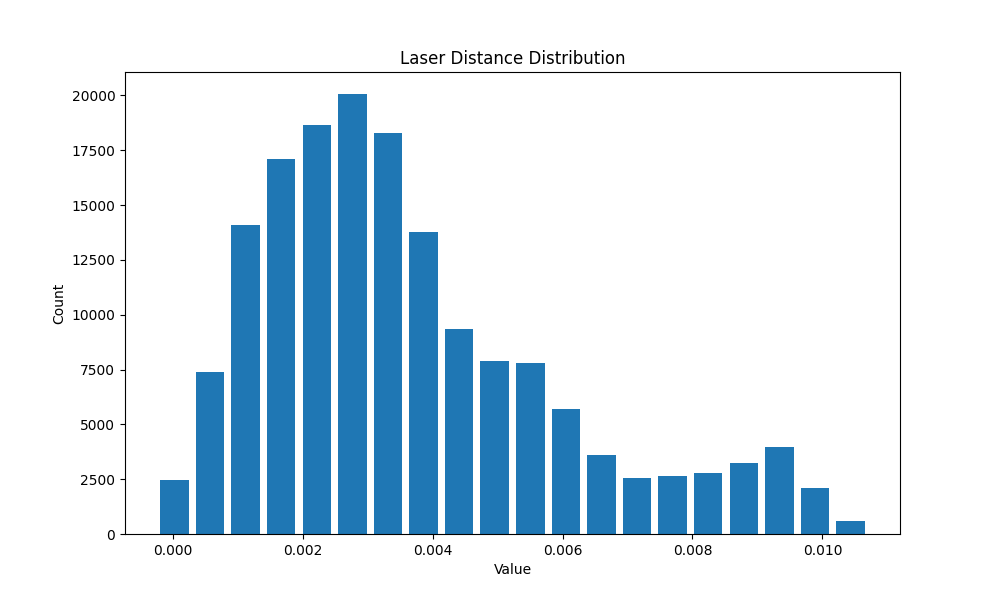
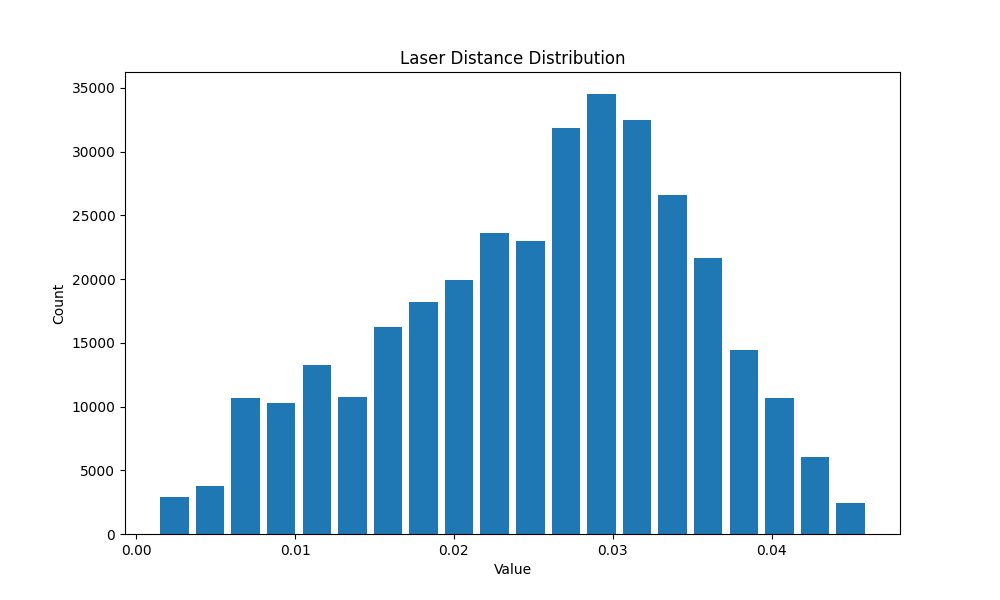
add params

diff --git a/src/simulator.cpp b/src/simulator.cpp
@@ -61,6 +61,8 @@ Simulator::Simulator(const std::string &configFilePath, int argc, char *argv[]) 
                 fov = std::stod(value);
             else if (key == "max_n_number")
                 max_n_number = std::stoi(value);
+            else if (key == "dac_resolution")
+                dac_resolution = std::stoi(value);
             else if (key == "long_time")
             {
                 if (value == "true")
@@ -72,8 +74,10 @@ Simulator::Simulator(const std::string &configFilePath, int argc, char *argv[]) 
             {
                 if (value == "one_max_value")
                     method = tracking_method::one_max_value;
-                else if (value == "three_max_value")
+                else if (value == "n_max_value")
                     method = tracking_method::n_max_value;
+                else if (value == "move_in_four")
+                    method = tracking_method::move_in_four;
                 else if (value == "fitting_glass")
                     method = tracking_method::fitting_galss;
                 else
@@ -125,6 +129,8 @@ Simulator::Simulator(const std::string &configFilePath, int argc, char *argv[]) 
             fov = std::stod(pair.second);
         else if (pair.first == "max_n_number")
             max_n_number = std::stoi(pair.second);
+        else if (pair.first == "dac_resolution")
+            dac_resolution = std::stoi(pair.second);
         else if (pair.first == "long_time")
         {
             if (pair.second == "true")
@@ -136,8 +142,10 @@ Simulator::Simulator(const std::string &configFilePath, int argc, char *argv[]) 
         {
             if (pair.second == "one_max_value")
                 method = tracking_method::one_max_value;
-            else if (pair.second == "three_max_value")
+            else if (pair.second == "n_max_value")
                 method = tracking_method::n_max_value;
+            else if (pair.second == "move_in_four")
+                method = tracking_method::move_in_four;
             else if (pair.second == "fitting_glass")
                 method = tracking_method::fitting_galss;
             else
@@ -158,6 +166,7 @@ Simulator::Simulator(const std::string &configFilePath, int argc, char *argv[]) 
     laser_orientation = (tag_position - laser_position).normalized();
     // set voltage based on orientation
     set_galvo_voltage();
+    std::cout << "galvo_voltage:" << galvo_voltage_x << " " << galvo_voltage_y << std::endl;
     std::cout
         << "laser_orientation" << laser_orientation.transpose() << std::endl;
     std::cout << "tag_position" << tag_position.transpose() << std::endl;
@@ -189,6 +198,7 @@ Simulator::Simulator(const std::string &configFilePath, int argc, char *argv[]) 
     std::cout << "Background intensity: " << background_intensity << std::endl;
     std::cout << "FOV: " << fov << std::endl;
     std::cout << "Max n number: " << max_n_number << std::endl;
+    std::cout << "DAC resolution: " << dac_resolution << std::endl;
     std::cout << "Long time: " << long_time << std::endl;
     std::cout << "Tracking method: ";
     switch (method)
@@ -198,6 +208,9 @@ Simulator::Simulator(const std::string &configFilePath, int argc, char *argv[]) 
         break;
     case tracking_method::n_max_value:
         std::cout << "n_max_value" << std::endl;
+        break;
+    case tracking_method::move_in_four:
+        std::cout << "move_in_four" << std::endl;
         break;
     case tracking_method::fitting_galss:
         std::cout << "fitting_glass" << std::endl;
@@ -222,13 +235,13 @@ void Simulator::run()
         adjust_laser_orientation();
 
         // report every second
-        if (std::fmod(simulate_time, 1) < 1e-5 && simulate_time > 1)
+        if (std::fmod(simulate_time, 1) < adc_time_step * (pd_number) && simulate_time > 1)
         {
             std::cout << "Time: " << simulate_time << "s" << std::endl;
             std::cout << "Laser orientation: " << laser_orientation.transpose() << std::endl;
             std::cout << "Tag position: " << tag_position.transpose() << std::endl;
             std::cout << std::endl;
-            if (!long_time)
+            if (!long_time && simulate_time * object_angular_speed > 2 * M_PI)
             {
                 std::cout << "Tracking success!" << std::endl;
                 // save record
@@ -266,7 +279,6 @@ void Simulator::run()
                     recordFile << min_intensity + intensity_interval * i << ":" << intensity_count[i] << std::endl;
                 }
                 recordFile.close();
-                // 绘制分布曲线
                 break;
             }
         }
@@ -312,12 +324,12 @@ double Simulator::gaussianBeamIntensity(const Eigen::Vector3d &dest,
     return intensity;
 }
 
-// based on galvo voltage(0-4095) ->(-fov~+fov)
+// based on galvo voltage(0-dac_resolution) ->(-fov~+fov)
 // voltage applied based on z-axis
 void Simulator::set_laser_orientation()
 {
-    double x = (galvo_voltage_x - 2048) / 2048.0 * fov;
-    double y = (galvo_voltage_y - 2048) / 2048.0 * fov;
+    double x = ((double)galvo_voltage_x - dac_resolution / 2) / (dac_resolution / 2) * fov;
+    double y = ((double)galvo_voltage_y - dac_resolution / 2) / (dac_resolution / 2) * fov;
     laser_orientation(0) = std::sin(x) * std::cos(y);
     laser_orientation(1) = std::sin(y);
     laser_orientation(2) = std::cos(x) * std::cos(y);
@@ -325,8 +337,8 @@ void Simulator::set_laser_orientation()
 
 void Simulator::set_galvo_voltage()
 {
-    galvo_voltage_x = (laser_orientation(0) / fov) * 2048 + 2048;
-    galvo_voltage_y = laser_orientation(1) / fov * 2048 + 2048;
+    galvo_voltage_x = (laser_orientation(0) / fov) * dac_resolution / 2 + dac_resolution / 2;
+    galvo_voltage_y = (laser_orientation(1) / fov) * dac_resolution / 2 + dac_resolution / 2;
 }
 void Simulator::adjust_laser_orientation()
 {
@@ -367,23 +379,41 @@ void Simulator::adjust_laser_orientation()
             y += temporate_pd[i].position(1) * temporate_pd[i].value;
         }
         double normalizer = std::min(abs(x), abs(y));
-        if (normalizer == 0)
+        if (normalizer < 1e-4)
             normalizer = std::max(abs(x), abs(y));
         assert(normalizer != 0);
         galvo_voltage_x += x / normalizer;
         galvo_voltage_y += y / normalizer;
         break;
     }
+    case tracking_method::move_in_four:
+    {
+        int max_index = 0;
+        for (int i = 0; i < pd_number; i++)
+        {
+            if (pd_array[i].value > pd_array[max_index].value)
+                max_index = i;
+        }
+        if (abs(pd_array[max_index].position(0)) > abs(pd_array[max_index].position(1)))
+        {
+            galvo_voltage_x += pd_array[max_index].position(0) / abs(pd_array[max_index].position(0));
+        }
+        else
+        {
+            galvo_voltage_y += pd_array[max_index].position(1) / abs(pd_array[max_index].position(1));
+        }
+        break;
+    }
     case tracking_method::fitting_galss:
     default:
         break;
     }
-    if (galvo_voltage_x > 4095)
-        galvo_voltage_x = 4095;
+    if (galvo_voltage_x > dac_resolution)
+        galvo_voltage_x = dac_resolution;
     if (galvo_voltage_x < 0)
         galvo_voltage_x = 0;
-    if (galvo_voltage_y > 4095)
-        galvo_voltage_y = 4095;
+    if (galvo_voltage_y > dac_resolution)
+        galvo_voltage_y = dac_resolution;
     if (galvo_voltage_y < 0)
         galvo_voltage_y = 0;
     set_laser_orientation();

diff --git a/include/simulator.h b/include/simulator.h
@@ -19,6 +19,7 @@ enum class tracking_method
 {
     one_max_value,
     n_max_value,
+    move_in_four,
     fitting_galss,
 };
 struct Record
@@ -41,8 +42,8 @@ private:
     Eigen::Vector3d laser_orientation;
     Eigen::Vector3d tag_position;
     Eigen::Vector3d laser_position;
-    uint16_t galvo_voltage_x;
-    uint16_t galvo_voltage_y;
+    uint32_t galvo_voltage_x;
+    uint32_t galvo_voltage_y;
     tracking_method method;
     double time_step;
     double fov;
@@ -61,6 +62,7 @@ private:
     double noise_stddev;
     double background_intensity;
     double object_radius;
+    uint32_t dac_resolution;
     Record record;
     bool long_time;
     int max_n_number;
